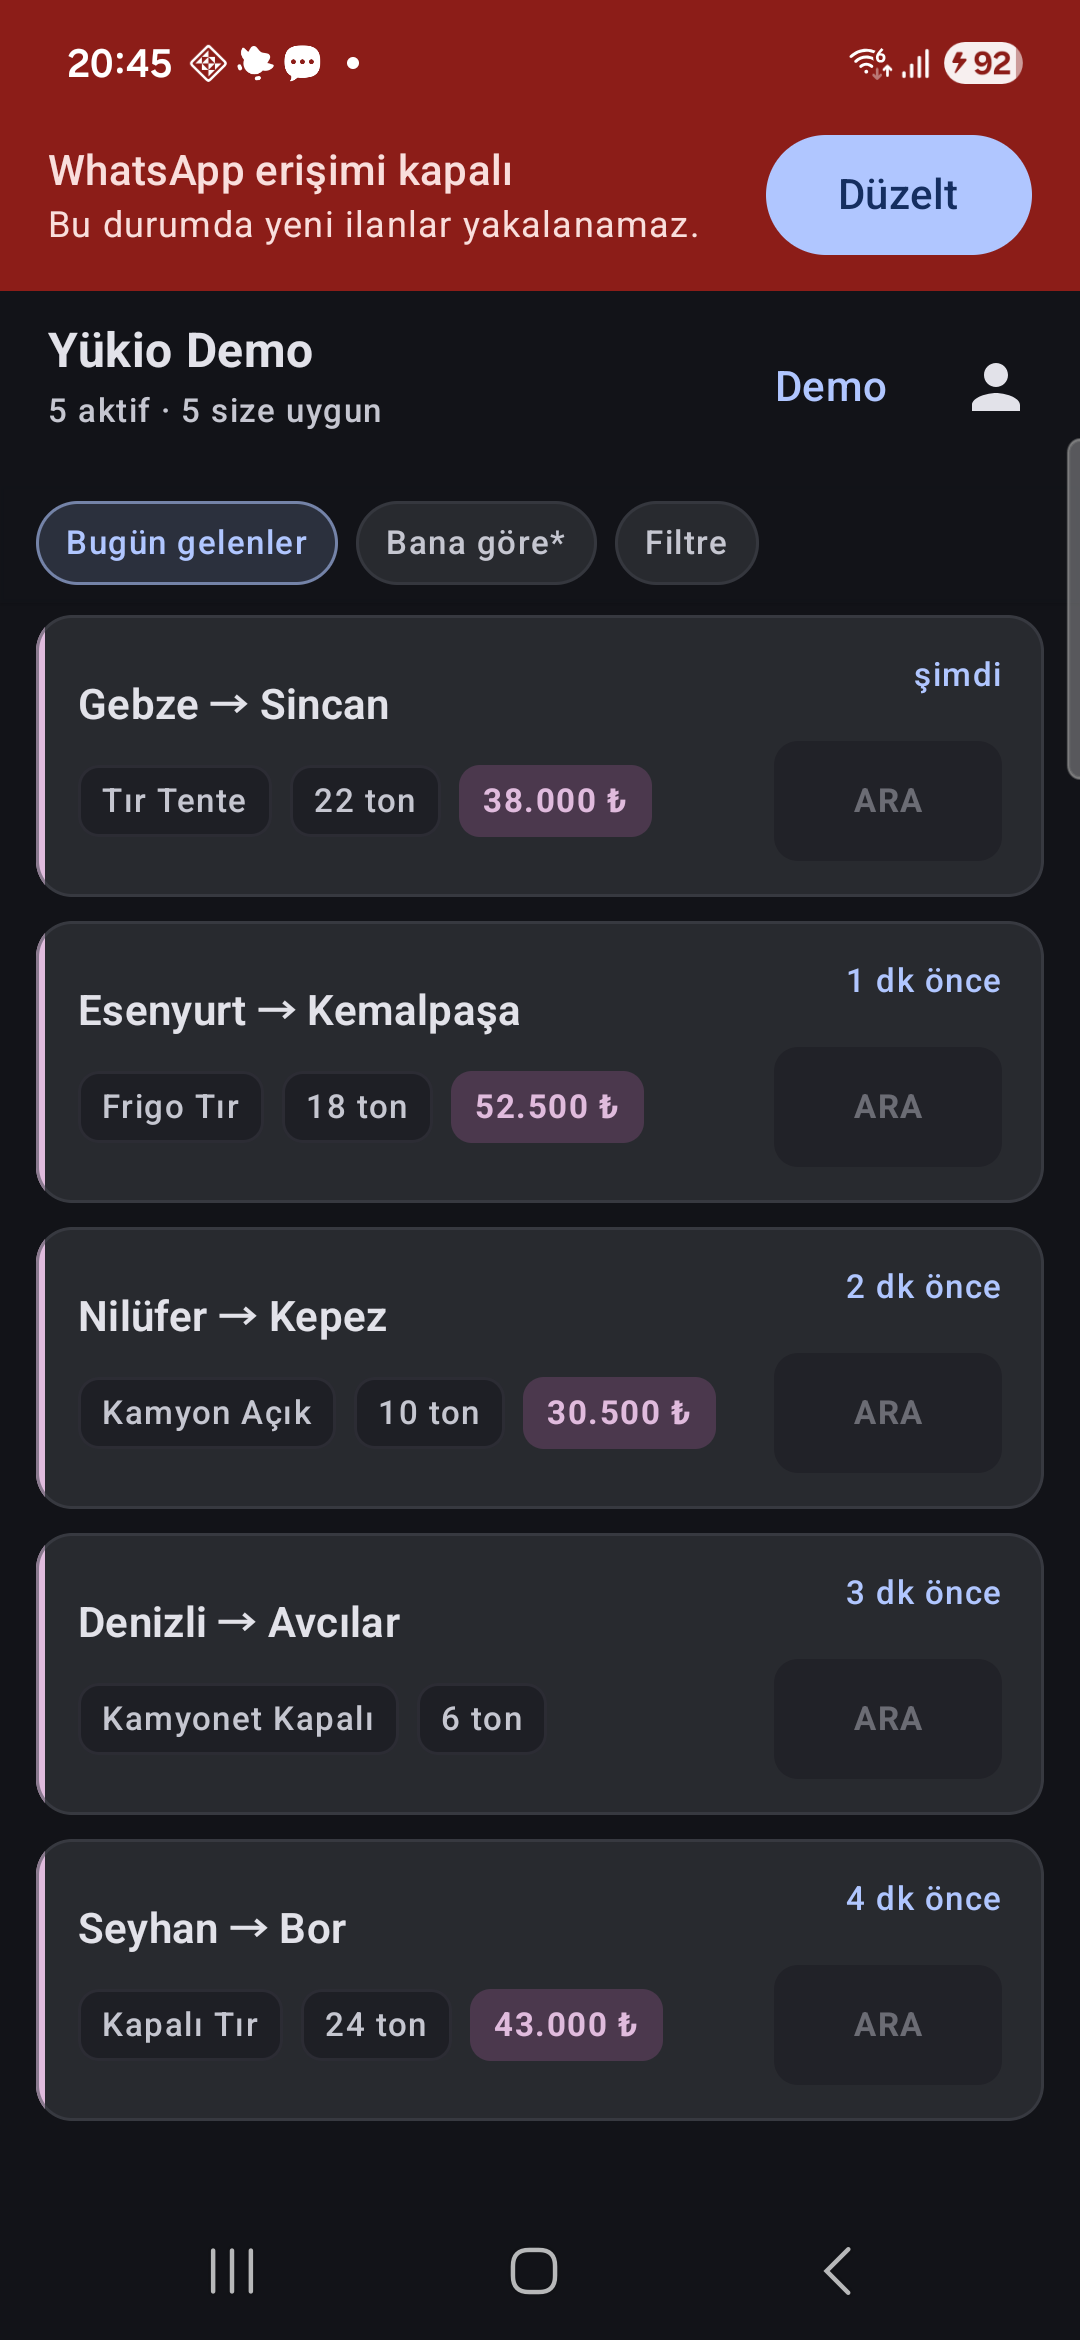
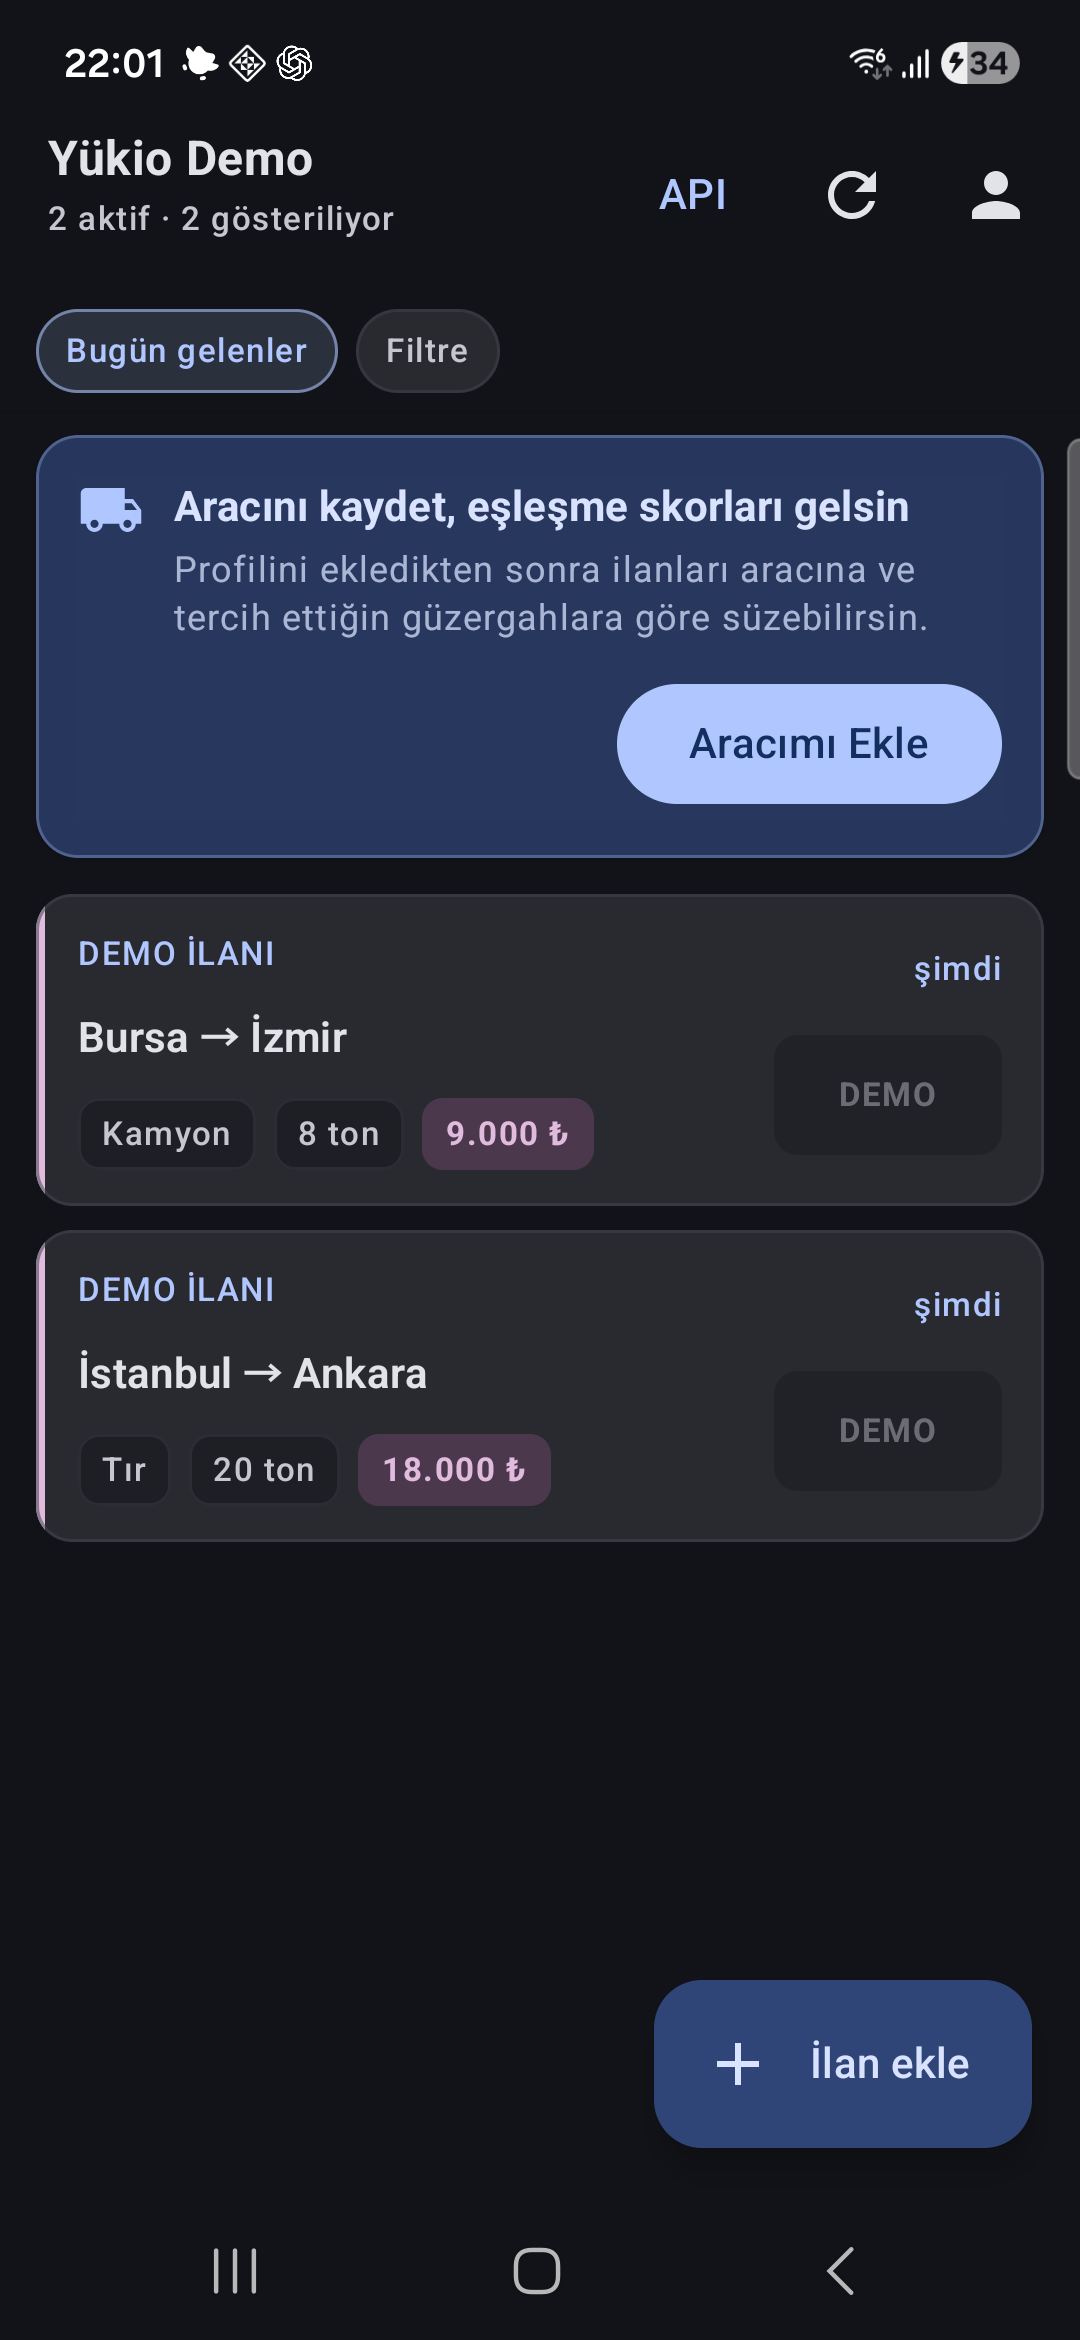
docs: refresh v44 phone screenshots and fix demo status insets

diff --git a/app/src/main/java/com/example/test/MainActivity.kt b/app/src/main/java/com/example/test/MainActivity.kt
@@ -473,7 +473,7 @@ fun AppNavHost(
                             },
                             onCreateListing = { navController.navigate(AppRoute.ManualListing.route) },
                             openLoadId = openLoadId,
-                            topBarUsesStatusInsets = notificationHealth.automaticChecksPassed,
+                            topBarUsesStatusInsets = true,
                             onOpenLoadHandled = {
                                 it.savedStateHandle["openLoadId"] = null
                             },

diff --git a/README.md b/README.md
@@ -9,16 +9,22 @@ sentetik ilan görünür. WhatsApp veya bildirim izni vermeden listeyi ve profil
 
 ## Ekran görüntüleri
 
-<img src="docs/screenshots/ilanlar.png" alt="Örnek yük ilanları" width="300"> <img src="docs/screenshots/giris.png" alt="Yerel sürüm başlangıç ekranı" width="300">
+Görseller v44 (1.0.8-demo) sürümünden fiziksel Samsung telefonda alınmıştır.
+Yalnız sentetik demo ilanları ve aranamayan örnek telefon numaraları içerir.
 
-Görseller önceki demo sürümüne aittir. v44 (1.0.8-demo) yeni ilan ve referans akışlarını ekler.
+<img src="docs/screenshots/ilanlar.png" alt="Demo ilan listesi" width="280"> <img src="docs/screenshots/detay.png" alt="Tam ekran ilan detayı" width="280">
 
+<img src="docs/screenshots/yeni-ilan.png" alt="Yeni ilan metni" width="280"> <img src="docs/screenshots/onizleme.png" alt="İlan kartlarının önizlemesi" width="280">
+
+<img src="docs/screenshots/ilanlarim.png" alt="Cihazdaki demo ilanlarım" width="280"> <img src="docs/screenshots/duzenle.png" alt="İlanı düzenleme" width="280">
+
+<img src="docs/screenshots/referans.png" alt="Örnek referans kodu" width="280"> <img src="docs/screenshots/referans-kullan.png" alt="İki sanal hesap için referans sonucu" width="280">
 
 ## Yayımlanmış APK
 
 [**Yukio.apk indir**](https://github.com/Tekin4124/yukio-android-demo/releases/latest/download/Yukio.apk) · [Sürüm notları ve SHA-256](https://github.com/Tekin4124/yukio-android-demo/releases/latest)
 
-Bağlantı son yayımlanan sürümü açar; v44 APK ayrıca hazırlanmıştır.
+Son sürüm: v44 (1.0.8-demo). Kaynak ve APK aynı sürümden hazırlanmıştır.
 Android 8.0 ve üzeri. APK yerel debug anahtarıyla imzalanmış inceleme sürümüdür; üretim uygulaması değildir.
 
 ## Hızlı başlangıç

diff --git a/docs/v44/DEMO_SINIRLARI.md b/docs/v44/DEMO_SINIRLARI.md
@@ -21,6 +21,7 @@ kapalıdır. Yerel demo çok kullanıcılı sunucu güvenliği örneği değildi
 Doğrulama: 129 Android birim testi (0 hata), yerel Python API'ın 8 testi (0 hata),
 lint başarılı, paylaşılabilir kaynak denetimi, APK üzerinde bilinen üretim adresi / credential
 örüntü denetimi, sürüm ve uygulama kimliği kontrolü. Bu kontroller tam kapsamlı
-bağımsız güvenlik denetimi anlamına gelmez. Fiziksel telefon bağlı değildi;
-emülatör bu ortamda güvenilir biçimde açılamadığı için yeni ekranların çalışma
-zamanı görsel kontrolü tamamlanamadı.
+bağımsız güvenlik denetimi anlamına gelmez. Fiziksel Samsung telefonda yeni ilan, kart önizleme, onay, ilanlarım, düzenleme
+penceresi, tam ekran detay ve referans simülasyonu kontrol edildi. Aynı örnek
+mesaj yeniden yayınlandığında yalnız ilk 2 ilan korundu. Başlığın sistem saat
+çubuğuyla çakışması giderildi. README görselleri bu demo akışından yenilendi.
